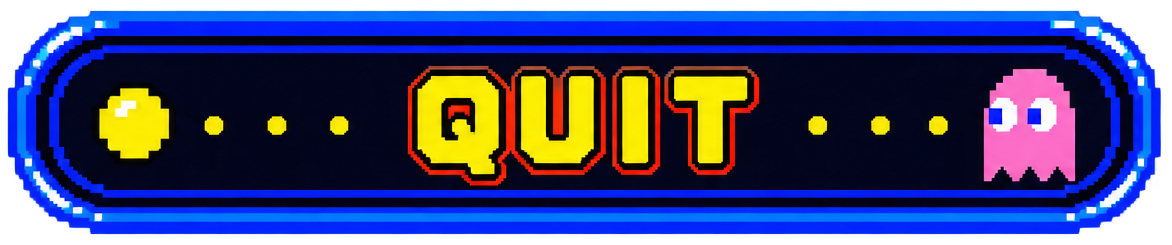
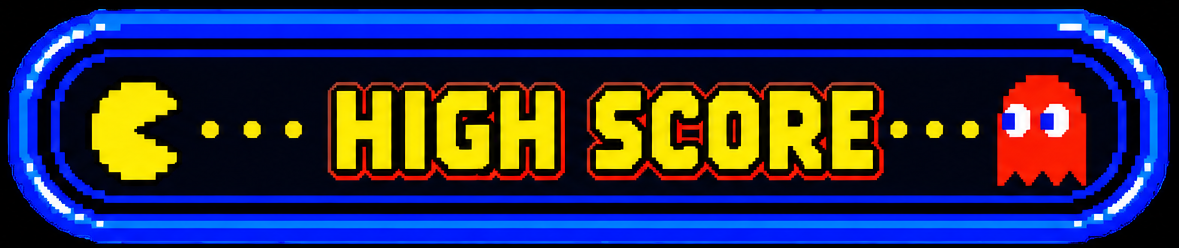
changing the parameters

diff --git a/src/interface/menu.py b/src/interface/menu.py
@@ -1,100 +1,44 @@
 import pygame
 from .render import Render, collide_point
 
-class ToggleBox:
-    """Pour cheat_mode / audio_enable : pas de curseur, juste ON/OFF."""
- 
-    def __init__(self, label, value, pos, font, color="#dedeff"):
-        self.value = value
-        self.font = font
-        self.color = color
- 
-        label_surf = font.render(label, False, color)
-        h = label_surf.get_height()
-        self.static_surf = pygame.Surface((label_surf.get_width() + 60, h))
-        self.static_surf.blit(label_surf, (0, 0))
- 
-        self.pos = pos
-        self.rect = pygame.Rect(pos[0], pos[1],
-                                 self.static_surf.get_width(), h)
-        # zone cliquable pour toggler : à droite du label
-        self.toggle_rect = pygame.Rect(
-            pos[0] + label_surf.get_width() + 10, pos[1], 40, h)
- 
-    def flip(self):
-        self.value = not self.value
-
-    def draw_toggle_box(self, screen: pygame.Surface):
-        screen.blit(self.static_surf, self.pos)
-        text = "ON" if self.value else "OFF"
-        color = "#7CFC00" if self.value else "#FF4444"
-        value_surf = self.font.render(text, False, color)
-        screen.blit(value_surf, self.toggle_rect.topleft)
-
 class ParamBox:
-    def __init__(self, label: str, min_val: int, max_val: int, value: int, pos, font,
-                 track_w=120, track_h=8, color="#dedeff"):
-        self.min_val, self.max_val, self.value = min_val, max_val, value
-        self.font = font
-        self.color = color
-        self.handle_w = 6
+    def __init__(self, string, size, min_v, max_v, range_size, value):
+        self.name = string
+        self.font = pygame.font.Font("font/press_start_2p.ttf", size)
+        self.text = self.font.render(string, False, "#dedeff")
+        self.font_val = self.font.render(str(value), False, "#181713")
+        self.value = value
+        self.t_size_w, self.t_size_h = self.text.get_size()
+        self.surf = pygame.Surface((self.t_size_w + range_size + 10, self.t_size_h))
+        self.range_val = max_v - min_v
+        self.min = min_v
+        self.max = max_v
+        self.percent = (value - min_v) / self.range_val
+        self.range = pygame.Surface((range_size, self.t_size_h))
+        self.range.fill("#3B1D8B")
+        self.range_box = pygame.Surface((range_size, self.t_size_h))
+        self.range_box.fill("#dee7de")
+        self.draw_box(range_size)
+        self.pad_w = self.surf.get_size()[0] // 2
 
-        label_surf = font.render(label, False, color)
-        min_surf = font.render(str(min_val), False, color)
-        max_surf = font.render(str(max_val), False, color)
+    def draw_box(self, range_size):
+        percent = self.percent
+        self.range_box.fill("#dee7de")
+        self.range_box.blit(self.range, (-int(range_size * (1 - percent)) , 0))
+        self.surf.blit(self.range_box, (self.t_size_w + 10 , 0))
+        self.surf.blit(self.text, (0, 0))
+        rect = self.font_val.get_rect(midtop=(self.t_size_w + 10 + range_size // 2, 0))
+        self.surf.blit(self.font_val, rect)
 
-        static_h = max(label_surf.get_height(), min_surf.get_height() + track_h)
-        static_w = label_surf.get_width() + 10 + track_w
-        self.static_surf = pygame.Surface((static_w, static_h))
-
-        label_rect = label_surf.get_rect(midleft=(0, static_h // 2))
-        track_rect = pygame.Rect(label_rect.right + 10, static_h - track_h,
-                                  track_w, track_h)
-        min_rect = min_surf.get_rect(bottomleft=track_rect.topleft)
-        max_rect = max_surf.get_rect(bottomright=track_rect.topright)
-
-        self.static_surf.blit(label_surf, label_rect)
-        self.static_surf.blit(min_surf, min_rect)
-        self.static_surf.blit(max_surf, max_rect)
-        pygame.draw.rect(self.static_surf, color, track_rect, 1)
-
-        # rect/track en coordonnées ECRAN absolues : c'est ce qui sert
-        # au clic (collide_point) et au calcul du curseur, pas les
-        # coordonnées locales à static_surf
-        self.rect = self.static_surf.get_rect(topleft=pos)
-        self.track_rect = track_rect.move(pos)
-
-    def ratio(self) -> float:
-        return (self.value - self.min_val) / (self.max_val - self.min_val)
-
-    def handle_rect(self) -> pygame.Rect:
-        x = self.track_rect.x + int(
-            self.ratio() * (self.track_rect.width - self.handle_w))
-        return pygame.Rect(x, self.track_rect.y, self.handle_w,
-                            self.track_rect.height)
-
-    def set_value_from_mouse_x(self, mouse_x: int):
-        ratio = (mouse_x - self.track_rect.x) / self.track_rect.width
-        ratio = max(0.0, min(1.0, ratio))
-        self.value = self.min_val + ratio * (self.max_val - self.min_val)
-
-
-def draw_param_box(screen: pygame.Surface, box: ParamBox):
-    screen.blit(box.static_surf, box.rect)
-
-    handle = box.handle_rect()
-    pygame.draw.rect(screen, "#ffcc00", handle)
-
-    value_surf = box.font.render(str(int(box.value)), False, "#ffcc00")
-    value_rect = value_surf.get_rect(midbottom=handle.midtop)
-    screen.blit(value_surf, value_rect)
-
+class RangeBox(ParamBox):
+    def __init__(self, string, size, min_v, max_v, range_size, value):
+        super().__init__(string, size, min_v, max_v, range_size, value)
 
 class Menu:
     def __init__(self, render: Render) -> None:
         self.render = render
         self.w, self.h = self.render.screen.get_size()
-#self.player2 = init_player(self, 1, self.args.lives)
+
 
     def param_menu(self, config: dict, clock, fps):
         clamps = {
@@ -105,61 +49,49 @@ class Menu:
             "points_per_pacgum": (1, 100),
             "points_per_super_pacgum": (1, 500),
             "fps": (30, 60),
-            "nb_player": (1, 2),
+            # "nb_player": (1, 2),
             "points_per_ghost": (1, 1600),
         }
+        self.render.screen.fill(0)
         toggles = ("cheat_mode", "audio_enable")
         boxes, toggle_boxes = [], []
-        y = 80
-        i = 0
+        nb_boxes = len(clamps.keys())
+        font_size = self.h // (nb_boxes * 4 + 2)
+        range_size = self.render.screen.get_size()[0] // 10
         for name, (min_v, max_v) in clamps.items():
             current = config.get(name, min_v)
-            boxes.append(ParamBox(name, min_v, max_v, current,
-                                (100, y), self.render.font))
-            y += boxes[i].font.get_linesize() * 3
-            i += 1
-    
-        for name in toggles:
-            current = config.get(name, False)
-            toggle_boxes.append(ToggleBox(name, current, (100, y), self.render.font))
-            y += 40
-    
-        dragging = None
-    
+            boxes.append(RangeBox(name, font_size, min_v, max_v, range_size, current))
+        pad_w = self.render.screen.get_rect().centerx
+        pad_h = (self.render.screen.get_size()[1] - font_size * nb_boxes * 2) // 2
         while True:
             for event in pygame.event.get():
                 if event.type == pygame.QUIT:
-                    for name, box in zip(clamps, boxes):
-                        config[name] = int(box.value)
-                    for name, tbox in zip(toggles, toggle_boxes):
-                        config[name] = tbox.value
                     return config
                 if event.type == pygame.KEYDOWN and event.key == pygame.K_ESCAPE:
-                    for name, box in zip(clamps, boxes):
-                        config[name] = int(box.value)
-                    for name, tbox in zip(toggles, toggle_boxes):
-                        config[name] = tbox.value
+                    for key, val in config.items():
+                        for box in boxes:
+                            if box.name == key:
+                                config[key] = box.value
                     return config
                 if event.type == pygame.MOUSEBUTTONDOWN:
                     mx, my = event.pos
-                    for box in boxes:
-                        if collide_point(box.track_rect, mx, my):
-                            dragging = box
-                            box.set_value_from_mouse_x(mx)
-                    for tbox in toggle_boxes:
-                        if collide_point(tbox.toggle_rect, mx, my):
-                            tbox.flip()
-                if event.type == pygame.MOUSEBUTTONUP:
-                    dragging = None
-                if event.type == pygame.MOUSEMOTION and dragging is not None:
-                    dragging.set_value_from_mouse_x(event.pos[0])
-    
-            self.render.screen.fill(0)
-            for box in boxes:
-                draw_param_box(self.render.screen, box)
-            for tbox in toggle_boxes:
-                tbox.draw_toggle_box(self.render.screen)
-    
+                    for i, box in enumerate(boxes, 0):
+                        rect = box.surf.get_rect(center=((pad_w, i * (font_size * 2) + pad_h)))
+                        rect.x += (box.text.get_size()[0] + 10)
+                        r_box = box.range_box.get_rect()
+                        r_box.x += rect.x
+                        r_box.y += rect.y
+                        if collide_point(r_box, mx, my):
+                            len2left_edge = mx - r_box.x
+                            box.percent = len2left_edge / range_size
+                            val = round(box.range_val * box.percent)
+                            val += box.min
+                            box.value = val
+                            box.font_val = box.font.render(str(val), False, "#181713")
+                            box.draw_box(range_size)
+            for i, box in enumerate(boxes, 0):
+                rect = box.surf.get_rect(center=((pad_w, i * (font_size * 2) + pad_h)))
+                self.render.screen.blit(box.surf, rect)
             pygame.display.flip()
             clock.tick(fps)
 
@@ -180,7 +112,7 @@ class Menu:
             btn.get_rect(center=(pad_w, pad_h + size[1] * i * 2))
             for i, btn in enumerate(btns)
         ]
-        play, param, quit, hg = btns_rect
+        play, param, hg, quit = btns_rect
         while True:
             for event in pygame.event.get():
                 if event.type == pygame.QUIT:

diff --git a/src/game.py b/src/game.py
@@ -9,7 +9,7 @@ from .entitys.ghosts import Ghost, GhostMode
 from .game_logic.direction import Dir
 from .game_logic.updates import update_entitys, update_game_state, get_fruits
 from .init import init_ghosts, init_maze, init_player, init_new_level
-
+from config.parser_config import print_obj
 
 class Game:
     def __init__(self, args):
@@ -18,7 +18,7 @@ class Game:
         self.args = args
         self.start_new_game(self.args)
 
-    def start_new_game(self, args):
+    def start_new_game(self, args: dict):
         self.fps = args.get("fps", 60)
         self.run = True
         self.cheat_mode = args.get("cheat_mode", False)
@@ -48,6 +48,7 @@ class Game:
         self.player.surf.blit(self.player.tiles[1], (0, 0))
         self.max_lives = args.get("lives", 3)
         self.clock = pygame.time.Clock()
+        print_obj(args)
         # les 33 premières tiles sont des pacmans
 
     # def set_args(self, args: dict):
@@ -126,7 +127,7 @@ class Game:
             self.render.screen.fill((0, 0, 0))
             self.render.putstr("GAY'M OVER BITCH", self.render.score, 0)
             pygame.display.flip()
-        if self.menu.main_menu() == "play":
+        if self.menu.main_menu(self.clock, self.fps) == "play":
             self.start_new_game(self.args)
             self.run = True
 
